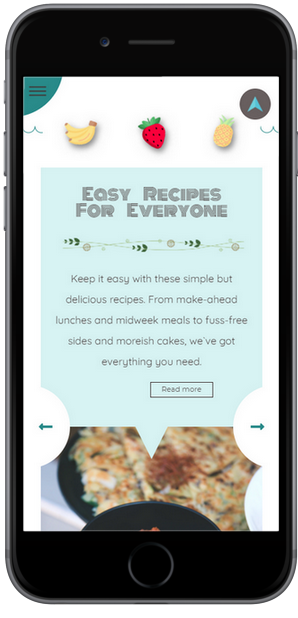
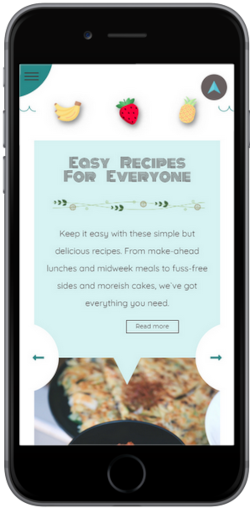
Added new project, fixed minor bugs

Changed region(s): [[0.924, 0.1236, 0.952, 0.8649], [0.056, 0.1236, 0.084, 0.8649]]

diff --git a/src/database/projects.js b/src/database/projects.js
@@ -14,6 +14,7 @@ import project13 from "./../assets/projects/project13.png";
 import project14 from "./../assets/projects/project14.png";
 import project15 from "./../assets/projects/project15.png";
 import project16 from "./../assets/projects/project16.png";
+import project17 from "./../assets/projects/project17.png";
 
 import desktop2 from "./../assets/projects/desktop2.png";
 import desktop3 from "./../assets/projects/desktop3.png";
@@ -30,6 +31,7 @@ import desktop13 from "./../assets/projects/desktop13.png";
 import desktop14 from "./../assets/projects/desktop14.png";
 import desktop15 from "./../assets/projects/desktop15.png";
 import desktop16 from "./../assets/projects/desktop16.png";
+import desktop17 from "./../assets/projects/desktop17.png";
 
 import mobile1 from "./../assets/projects/mobile1.png";
 import mobile2 from "./../assets/projects/mobile2.png";
@@ -41,6 +43,7 @@ import mobile11 from "./../assets/projects/mobile11.png";
 import mobile13 from "./../assets/projects/mobile13.png";
 import mobile14 from "./../assets/projects/mobile14.png";
 import mobile15 from "./../assets/projects/mobile15.png";
+import mobile17 from "./../assets/projects/mobile17.png";
 
 import polish from "./../assets/languages/polish.png";
 import english from "./../assets/languages/english.png";
@@ -62,7 +65,8 @@ const projects = {
         project13,
         project14,
         project15,
-        project16
+        project16,
+        project17
     ],
 };
 
@@ -205,6 +209,15 @@ const projectsDetails_en = [
         description: "A simple virtual piano which can be used to play a music on virtual piano's keyboard. Record button which records the music played on the piano and a play button which enable listening to the recorder music were added as an additional feature.",
         code: "https://github.com/Cenora6/Virtual-Piano",
         live: "https://cenora6.github.io/Virtual-Piano/"
+    },
+
+    {
+        image: [mobile17, desktop17],
+        details: "HTML5, SASS, React, TypeScript",
+        language: [english],
+        description: "'Today I Want To Watch' is a website which was created for those who have a hard time finding the perfect movie or tv series to watch. By choosing the movie's or tv show's genre or keyword, the website chooses a random movie/tv show and shows its details (like poster, cast, description, genres, release year or seasons, links to imdb and The Movie Database) which help you make the decision what to watch. You can either try to find another movie or change the searching options and try again!",
+        code: "https://github.com/Cenora6/today-i-want-to-watch",
+        live: "https://cenora6.github.io/today-i-want-to-watch/"
     }
 ];
 
@@ -347,6 +360,15 @@ const projectsDetails_pl = [
         description: "Proste wirtualne pianino, na którym można wygrywać różne dźwięki, a także nagrywać zagraną melodię przy użyciu mikrofonu komputera.",
         code: "https://github.com/Cenora6/Virtual-Piano",
         live: "https://cenora6.github.io/Virtual-Piano/"
+    },
+
+    {
+        image: [mobile17, desktop17],
+        details: "HTML5, SASS, React, TypeScript",
+        language: [english],
+        description: "'Today I Want To Watch' została stworzona dla tych, którzy mają zawsze problem znaleźć interesujący film czy serial do obejrzenia. Poprzez wybór gatunku lub słów kluczowych związanych z filmem lub serialem, aplikacja wybiera losowo jeden tytuł i pokazuje jego plakat, obsadę, opis, gatunek, rok wydania, a także odnośniki do stron imdb oraz tmdb. Jeśli wybrany tytuł nie trafi w gust, wystarczy ponowić wyszukiwanie lub zmienić jego parametry.",
+        code: "https://github.com/Cenora6/today-i-want-to-watch",
+        live: "https://cenora6.github.io/today-i-want-to-watch/"
     }
 ];
 

diff --git a/src/stylesheets/components/_projects.scss b/src/stylesheets/components/_projects.scss
@@ -100,6 +100,7 @@
             bottom: 2rem;
             height: 20rem;
             z-index: 0;
+            top: 0;
 
             @include phone {
               bottom: auto;
